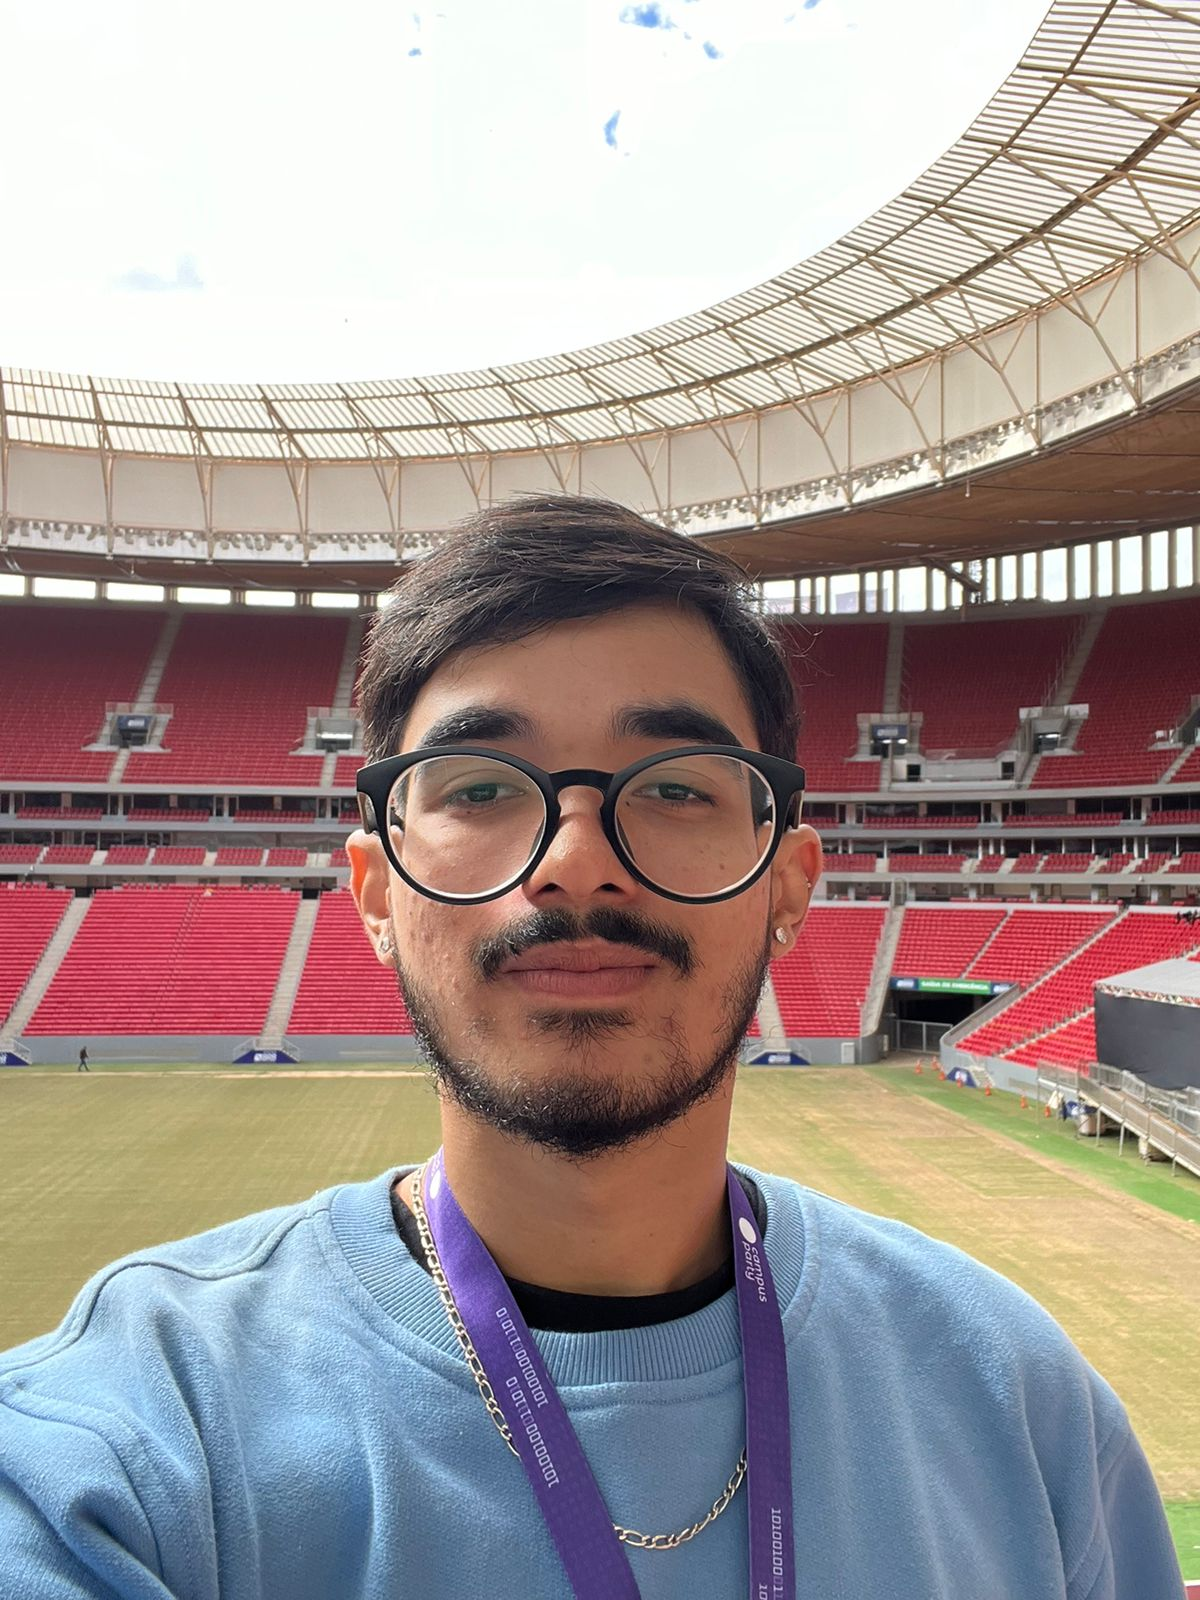
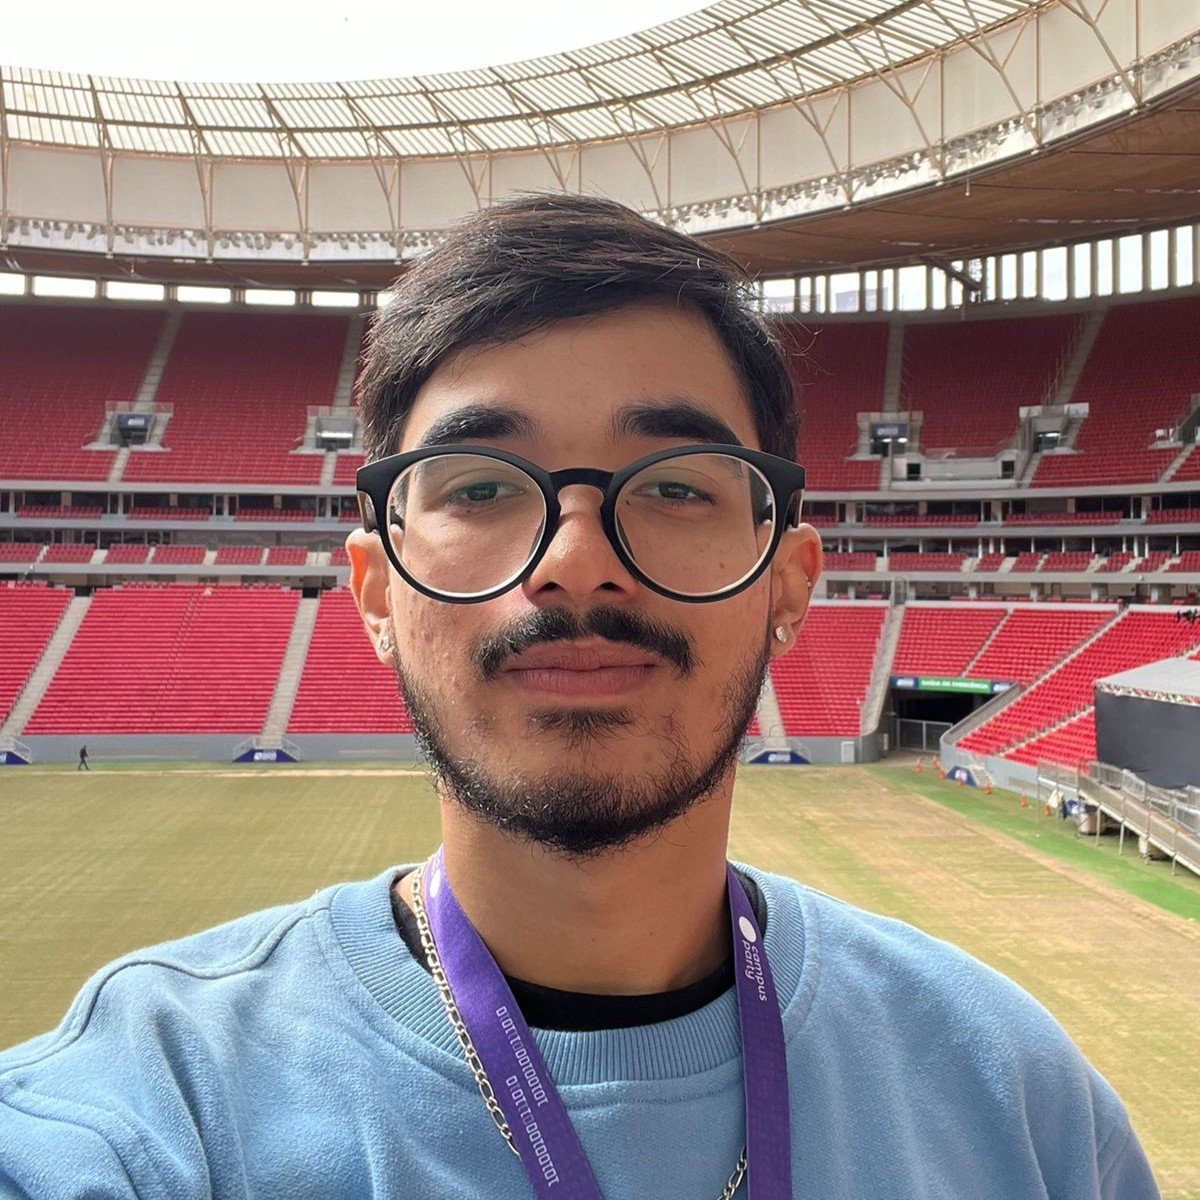
refactor - padroniza assets e personalizações

diff --git a/Front/src/app/(auth)/cadastro/login/page.tsx b/Front/src/app/(auth)/cadastro/login/page.tsx
@@ -55,7 +55,7 @@ export default function Login() {
             <div className="w-[640px] min-h-[730px] rounded-2xl bg-white border border-gray-200 shadow-xl absolute top-[45%] left-1/2 -translate-x-1/2 -translate-y-1/2 flex flex-col items-center p-8"> 
                 
                 <Link href="/" className="absolute top-6 left-6">
-                    <ArrowLeftIcon className="w-10 h-10 text-[#1A2A4A] cursor-pointer hover:text-blue-600 transition" />
+                    <ArrowLeftIcon className="w-10 h-10 text-azul-dark cursor-pointer hover:text-blue-600 transition" />
                 </Link>
 
                 <Image 
@@ -66,10 +66,9 @@ export default function Login() {
                     className="mt-2" 
                 />
                 
-                <h1 className='text-[36px] text-[#050505] mb-10 font-bold font-[var(--fonte-primaria)]'>
+                <h1 className='text-[36px] text-texto-primario mb-10 font-bold font-[var(--fonte-primaria)]'>
                     Login
                 </h1>
-
 
                 <form className="w-full max-w-sm flex flex-col items-center" onSubmit={handleLogin}>
                     
@@ -78,14 +77,14 @@ export default function Login() {
                             E-mail
                         </label>
                         <div className="relative">
-                            <UserCircleIcon className="absolute left-4 top-1/2 -translate-y-1/2 w-6 h-6 text-[#1A2A4A]" />
+                            <UserCircleIcon className="absolute left-4 top-1/2 -translate-y-1/2 w-6 h-6 text-azul-dark" />
                             <input 
                                 type="email" 
                                 id="email" 
                                 value={email}
                                 onChange= {(e) => setEmail(e.target.value)}
                                 placeholder="Digite aqui seu Email" 
-                                className="w-full pl-12 pr-4 py-3 border border-gray-300 rounded-xl shadow-sm focus:outline-none focus:ring-blue-500 focus:border-blue-500 text-gray-800 placeholder-[#1A2A4A] font-[var(--fonte-primaria)]"
+                                className="w-full pl-12 pr-4 py-3 border border-gray-300 rounded-xl shadow-sm focus:outline-none focus:ring-blue-500 focus:border-blue-500 text-gray-800 placeholder-azul-dark font-[var(--fonte-primaria)]"
                             />
                         </div>
                     </div>
@@ -95,14 +94,14 @@ export default function Login() {
                             Senha
                         </label>
                         <div className="relative">
-                            <KeyIcon className="absolute left-4 top-1/2 -translate-y-1/2 w-6 h-6 text-[#1A2A4A]" />
+                            <KeyIcon className="absolute left-4 top-1/2 -translate-y-1/2 w-6 h-6 text-azul-dark" />
                             <input 
                                 type="password" 
                                 id="password" 
                                 placeholder="Digite aqui sua senha" 
                                 value={senha}
                                 onChange={(e) => setSenha(e.target.value)}
-                                className="w-full pl-12 pr-4 py-3 border border-gray-300 rounded-xl shadow-sm focus:outline-none focus:ring-blue-500 focus:border-blue-500 text-gray-800 placeholder-[#1A2A4A] font-[var(--fonte-primaria)]"
+                                className="w-full pl-12 pr-4 py-3 border border-gray-300 rounded-xl shadow-sm focus:outline-none focus:ring-blue-500 focus:border-blue-500 text-gray-800 placeholder-azul-dark font-[var(--fonte-primaria)]"
                             />
                         </div>
                     </div>
@@ -116,8 +115,8 @@ export default function Login() {
                     <div className="w-full flex justify-around items-center mb-8">
                         <div className="flex items-center">
                             <button type="button" className="flex items-center">
-                                <CheckCircleIcon className="w-5 h-5 text-[#1A2A4A]" />
-                                <span className="ml-2 block text-sm text-[#1A2A4A]"> 
+                                <CheckCircleIcon className="w-5 h-5 text-azul-dark" />
+                                <span className="ml-2 block text-sm text-azul-dark"> 
                                     Lembrar-me
                                 </span>
                             </button>
@@ -129,7 +128,7 @@ export default function Login() {
 
                     <button
                         type="submit"
-                        className="flex items-center justify-center border border-[#1A2A4A] rounded-xl py-3 gap-2 bg-[#3060BF] w-[240px] text-white hover:bg-[#254c9b] transition font-semibold">
+                        className="flex items-center justify-center border border-azul-dark rounded-xl py-3 gap-2 bg-azul-principal w-[240px] text-white hover:bg-[#254c9b] transition font-semibold">
                         LOGIN
                         <ArrowRightEndOnRectangleIcon className='size-5'/>
                     </button>
@@ -139,7 +138,7 @@ export default function Login() {
                     <Image src="/google.png" alt="Login com Google" width={48} height={48} /> 
                 </button>
 
-                <p className="mt-6 text-sm text-[#1A2A4A]">
+                <p className="mt-6 text-sm text-azul-dark">
                     Novo por aqui ?  {'   '}
                     <Link href="/cadastro" className="font-medium text-blue-600 hover:underline"> {/* conferir se esse é o nome da página*/}
                         Crie sua conta

diff --git a/Front/src/app/(auth)/cadastro/cadastro/page.tsx b/Front/src/app/(auth)/cadastro/cadastro/page.tsx
@@ -20,7 +20,7 @@ export default function Cadastro() {
             <h1 className='text-[36px] text-texto-primario style={{fontFamily: "var(--fonte-primaria)"}} mb-[43px]'>Cadastro</h1>
 
             <ul className='flex flex-col items-center justify-center gap-2.5 w-full h-[440px]' >
-                <li className='flex items-center p-[13px_15px] border border-bordas] rounded-[15px] w-[440px] h-[50px]'>
+                <li className='flex items-center p-[13px_15px] border border-bordas rounded-[15px] w-[440px] h-[50px]'>
                     <AcademicCapIcon className='size-5'/>
                     <input type="text" 
                     placeholder='Digite aqui seu Nome'
@@ -54,27 +54,25 @@ export default function Cadastro() {
                 
                 <li className='flex items-center p-[13px_15px] border border-bordas rounded-[15px] w-[440px] h-[50px]'>
                     <ChevronUpDownIcon className='size-5'/>
-                    <select className='w-full outline-none px-[9px] '>
+                    <select className='w-full outline-none px-[9px]'>
                         <option value="" disabled selected>Selecione sua Ocupação</option>
                         <option value="Servidor">Servidor</option>
                         <option value="Aluno">Aluno</option>
                     </select>
-                    
-                    
                 </li>
             </ul>
 
             <button
                 type="submit"
-                className="flex items-center justify-center border border-azul-dark rounded-md py-[11px] my-[38px] gap-[5px] bg-azul-principal w-60 h-[45px] text-white hover:bg-azul-light transition">
+                className="flex items-center justify-center border border-azul-dark rounded-[15px] py-[11px] my-[38px] gap-[5px] bg-azul-principal w-60 h-[45px] text-white hover:bg-azul-light transition">
                 CADASTRAR
                 <ArrowRightEndOnRectangleIcon className='size-5'/>
             </button>
         
             <div className="flex items-center gap-2 mb-[50px]">
-                <input type="checkbox" id="termos" className="w-4 h-4" />
+                <input type="checkbox" id="termos" className="w-5 h-5 bg-azul-principal" />
                 <label htmlFor="termos" className="text-sm text-texto-corpo">
-                    Declaro que li e aceito os <a href="#" className="text-blue-500 underline">termos de uso</a>
+                    Declaro que li e aceito os <a href="#" className="text-azul-principal underline">termos de uso</a>
                 </label>
                 <ShieldCheckIcon className='size-6'/>
             </div>

diff --git a/Front/src/app/(app)/paginaDenuncia/page.tsx b/Front/src/app/(app)/paginaDenuncia/page.tsx
@@ -29,7 +29,7 @@ export default function PaginaDenuncias() {
         {/*Esquerda: Logo e Título */}
         <div className="flex items-center space-x-4">
           <Image
-            src="/Corujuda-Contorno.svg"
+            src="/logos/Corujuda-Contorno.svg"
             alt="Logo Guardiões da Universidade"
             width={84}
             height={84}
@@ -47,7 +47,7 @@ export default function PaginaDenuncias() {
             <NewspaperIcon className="h-10 w-10 text-white hover:opacity-80 transition-opacity"/>
           </button>
           <button aria-label="Denúncia">
-            <HomeIcon className="h-10 w-10 text-[#67A8FF]"/>
+            <HomeIcon className="h-10 w-10 text-azul-light"/>
           </button>
           <button aria-label="Histórico">
             <ArchiveBoxIcon className="h-10 w-10 text-white hover:opacity-80 transition-opacity"/>
@@ -72,14 +72,14 @@ export default function PaginaDenuncias() {
           h-26                    /* Altura: 104px */
           w-26                    /* Largura: 104px */
           rounded-full            /* Totalmente redondo */
-          bg-[#1A2A4A]          /* Cor de fundo */
-          hover:bg-[#67A8FF]    /* Cor ao passar o mouse */
+          bg-azul-dark          /* Cor de fundo */
+          hover:bg-azul-light   /* Cor ao passar o mouse */
           flex                    /* Para centralizar o ícone */
           items-center            /* ...verticalmente */
           justify-center          /* ...horizontalmente */
           shadow-lg               /* Sombra */
           transition-colors       /* Efeito de transição */
-          duration-300
+          duration-300            /* Duração da transição */
         "
       >
         <PlusIcon className="h-12 w-12 text-white"/>

diff --git a/Front/src/app/layout.tsx b/Front/src/app/layout.tsx
@@ -16,7 +16,7 @@ const geistMono = Geist_Mono({
 
 export const metadata: Metadata = {
   title: "GdU",
-  description: "Generated by create next app",
+  description: "Guardiões da Universidade",
 };
 
 

diff --git a/Front/src/components/header.tsx b/Front/src/components/header.tsx
@@ -8,7 +8,7 @@ export default function Header() {
       <Link href="/" className="flex items-center space-x-3">
         <>
           <Image
-            src="/Corujuda-Contorno.svg"
+            src="/logos/Corujuda-Contorno.svg"
             alt="Logo Guardiões da Universidade"
             width={84}
             height={84}